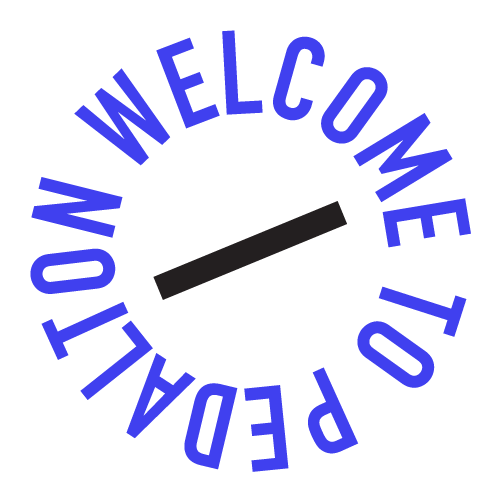
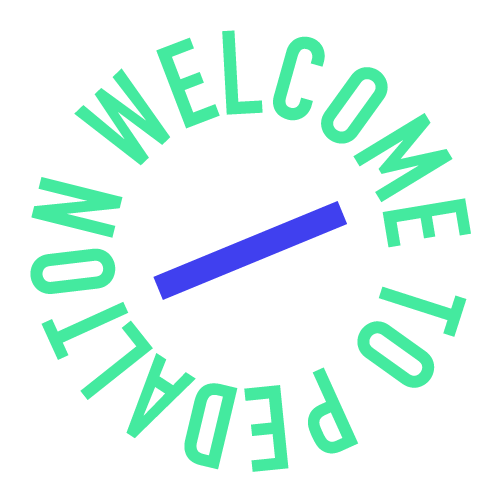
added style and character illustrations

diff --git a/js/events.js b/js/events.js
@@ -1,7 +1,8 @@
 $(document).ready(function() {
   page.init();
 });
-
+var opponent = "";
+var opponentBike = "";
 var page = {
 
   init: function () {
@@ -19,8 +20,8 @@ var page = {
     // $('#char-form').on('change', page.toCharSelect);
     $('#char-select').on('change', page.toCharSelect);
     $('#ride').on('submit', page.toRace);
-    $('#race').on('submit', page.toResults);
-    $('#race-content').on('submit', page.toBeginning);
+    $('#btnGo').on('click', page.toResults);
+    $('#playAgain').on('click', page.toBeginning);
   },
 
   toCharacters: function(){
@@ -67,7 +68,6 @@ var page = {
   // opponentBike: function(){
   //   return randomizer(bikes);
   // },
-
   toRace: function(){
     event.preventDefault();
     $(this).removeClass('active');
@@ -81,7 +81,13 @@ var page = {
       + "<div class='playerAvatar'><img src='"
       + opponent.img
       + "'></div>"
-      +"<h3>ALRIGHT! Nothing beats a little healthy competition!<br /> You will be going head to head against "
+      + "<p class='vs'>vs</p>"
+      + "<div class='playerAvatar'><img src='"
+      + page.charChoice().img
+      + "'></div>"
+      +"<h3>Nothing beats a little healthy competition!<br /> You will be riding as "
+      + page.charChoice().name
+      +" going head to head against "
       + opponent.name
       + " riding on a "
       + opponentBike.name
@@ -96,21 +102,25 @@ var page = {
 
   toResults: function(){
     event.preventDefault();
-    // if (this.bike.weight + this.speed + this.energy > racerBike.weight + racer.speed + racer.energy){
-    //   return this.name + " wins the race";
-    // } else {
-    //   return racer.name + " wins the race";
-    // }
-    return $('.race-content').html(
-      "<h3>YOU WIN</h3>"
-      + "<p>you did it, you finished your first bike race!"
-      + "<button id='playAgain' name='Play Again'>Play Again</button>")
+      console.log("click");
+    if (page.charChoice().weight + page.charChoice().speed + page.charChoice().energy > opponentBike.weight + opponent.speed + opponent.energy){
+      return $('#race').html(
+        "<h3>YOU WIN</h3>"
+        + "<p>you did it, you finished your first bike race!"
+        + "<button id='playAgain' name='Play Again'>Play Again</button>")
+    } else if (page.charChoice().weight + page.charChoice().speed + page.charChoice().energy < opponentBike.weight + opponent.speed + opponent.energy) {
+      return $('#race').html(
+        "<h3>YOU LOSE GOOD DAY SIR!</h3>"
+        + "<button id='playAgain' name='Play Again'>Try Again</button>")
+    } else {
+      return $('#race').html("<h3>ITS A TIE</h3>" + "<button id='playAgain' name='Play Again'>Try Again</button>");
+    };
   },
 
   toBeginning: function(){
     event.preventDefault();
     console.log('clicked')
-    $(this).parent().removeClass('active');
+    $('section').closest().removeClass('active');
     $('#welcome').addClass('active');
   }
 }; // end page

diff --git a/css/main.css b/css/main.css
@@ -25,6 +25,12 @@ select#char-select:focus {
   outline: none;
   border: 1px dashed; }
 
+button#char-select-submit:hover {
+  color: #fff; }
+
+button#char-select-submit:disabled {
+  color: rgba(0, 0, 0, 0.5); }
+
 .charFeature {
   width: 50%;
   display: inline-block;
@@ -38,8 +44,15 @@ select#char-select:focus {
   border-radius: 100%; }
 
 .playerAvatar {
-  width: 20%;
-  margin: 0 auto; }
+  width: 33%;
+  margin: 0 auto;
+  display: inline-block;
+  vertical-align: middle; }
+
+.vs {
+  width: 33%;
+  display: inline-block;
+  text-align: center; }
 
 * {
   margin: 0;
@@ -83,7 +96,7 @@ form {
 
 button {
   -webkit-appearance: none;
-  background: #4040EF;
+  background: #44EA9F;
   border: none;
   padding: 30px;
   font-size: 17px;
@@ -91,8 +104,9 @@ button {
   transition: .2s all;
   color: white;
   margin: 10% 0;
-  width: 100%; }
+  width: 100%;
+  cursor: pointer; }
 
 button:hover {
-  background-color: #5C5CFF;
+  background-color: #4040EF;
   color: white; }

diff --git a/js/app.js b/js/app.js
@@ -51,10 +51,10 @@ function Environment(options){
 };
 
 // Characters
-var oldLady = new Character({name: "old Lady", speed: 100, energy: 20, img:"img/oldLady.jpg"});
-var pro = new Character({name: "pro", speed: 60, energy: 60, img:"img/pro.jpg"});
-var hipster = new Character({name: "hipster", speed: 40, energy: 50, img:"img/hipster.jpg"});
-var littleKid = new Character({name: "littleKid", speed: 15, energy: 100, img:"img/littleKid.jpg"});
+var oldLady = new Character({name: "old Lady", speed: 100, energy: 20, img:"img/oldLady.png"});
+var pro = new Character({name: "pro", speed: 60, energy: 60, img:"img/pro.png"});
+var hipster = new Character({name: "hipster", speed: 40, energy: 50, img:"img/hipster.png"});
+var littleKid = new Character({name: "littleKid", speed: 15, energy: 100, img:"img/littleKid.png"});
 var characters = [oldLady,pro,hipster,littleKid];
 var randomizer = function(param){
   var result = param[Math.floor(Math.random()*param.length)];

diff --git a/css/_welcome.scss b/css/_welcome.scss
@@ -7,7 +7,7 @@
 }
 button {
   -webkit-appearance: none;
-  background: #4040EF;
+  background: #44EA9F;
   border: none;
   padding: 30px;
   font-size: 17px;
@@ -16,8 +16,9 @@ button {
   color: white;
   margin: 10% 0;
   width:100%;
+  cursor:pointer;
 }
 button:hover {
-  background-color: #5C5CFF;
+  background-color: #4040EF;
   color: white;
 }

diff --git a/index.html b/index.html
@@ -43,10 +43,7 @@
         <div class="opponent-content">
         </div>
         <div class="race-content">
-          <form>
-            <button name="next">Go!</button>
-          </form>
-
+          <button id="btnGo" name="next">Go!</button>
         </div>
       </section>
 

diff --git a/css/_character.scss b/css/_character.scss
@@ -17,6 +17,9 @@ select#char-select:focus {
   outline: none;
   border: 1px dashed;
 }
+button#char-select-submit:hover {
+    color: #fff;
+}
 button#char-select-submit:disabled {
-    color: #2727A9;
+    color: rgba(0,0,0,0.5);
 }

diff --git a/css/_opponent.scss b/css/_opponent.scss
@@ -12,6 +12,13 @@
 }
 
 .playerAvatar {
-    width: 20%;
+    width: 33%;
     margin: 0 auto;
+    display:inline-block;
+    vertical-align:middle;
+}
+.vs{
+  width:33%;
+  display:inline-block;
+  text-align:center;
 }

diff --git a/css/_core.scss b/css/_core.scss
@@ -8,6 +8,7 @@ body{
   color:#4040EF;
   font-family: 'Noto Sans', sans-serif;
 }
+
 section{
   display:none;
   width:100%;
